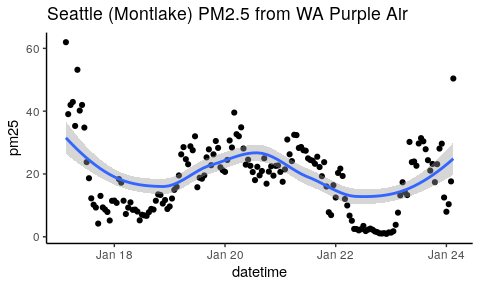
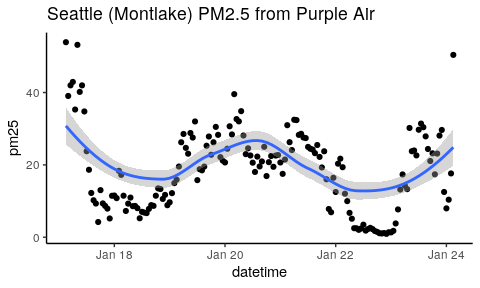
Fixed another typo.

diff --git a/demos/data_import/epa_aqi/getAQI.md b/demos/data_import/epa_aqi/getAQI.md
@@ -498,7 +498,7 @@ plot_df <- df %>% select(datetime = "created_at", pm25 = "PM2.5 (ATM)") %>%
 
 
 ```r
-plot_title <- "Seattle (Montlake) PM2.5 from WA Purple Air"
+plot_title <- "Seattle (Montlake) PM2.5 from Purple Air"
 ggplot(plot_df, aes(datetime, pm25)) + geom_point() +  ggtitle(plot_title) + 
   geom_smooth(formula = "y ~ x", method = "loess") + theme_classic()
 ```
